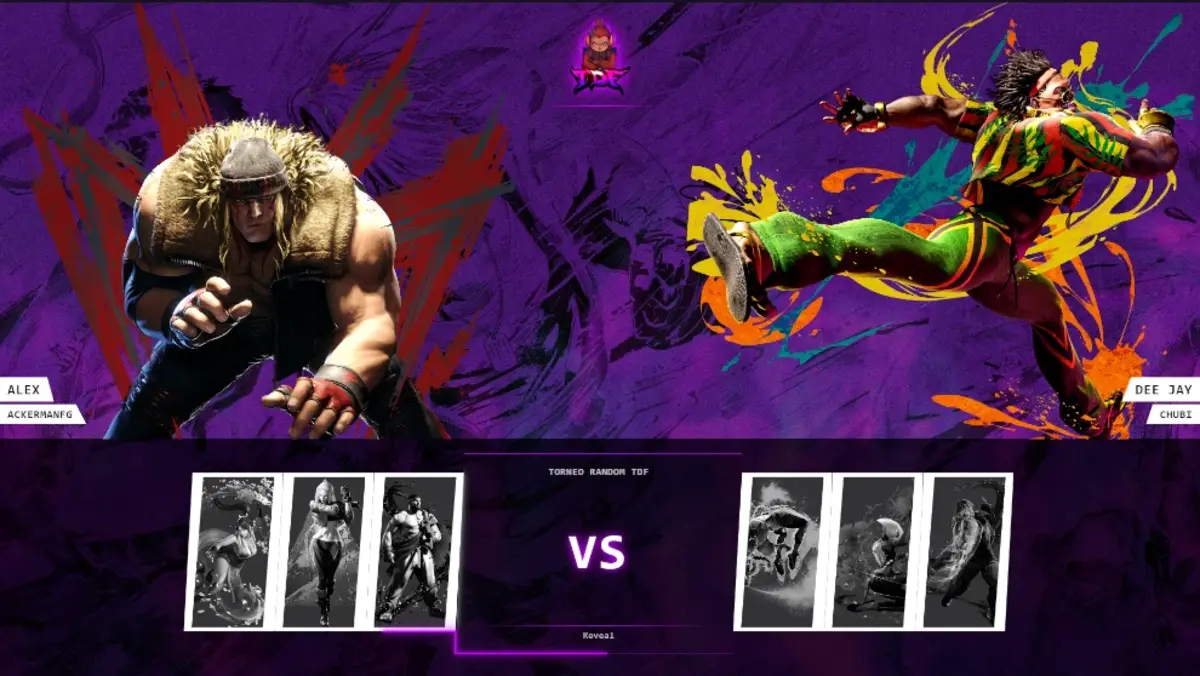
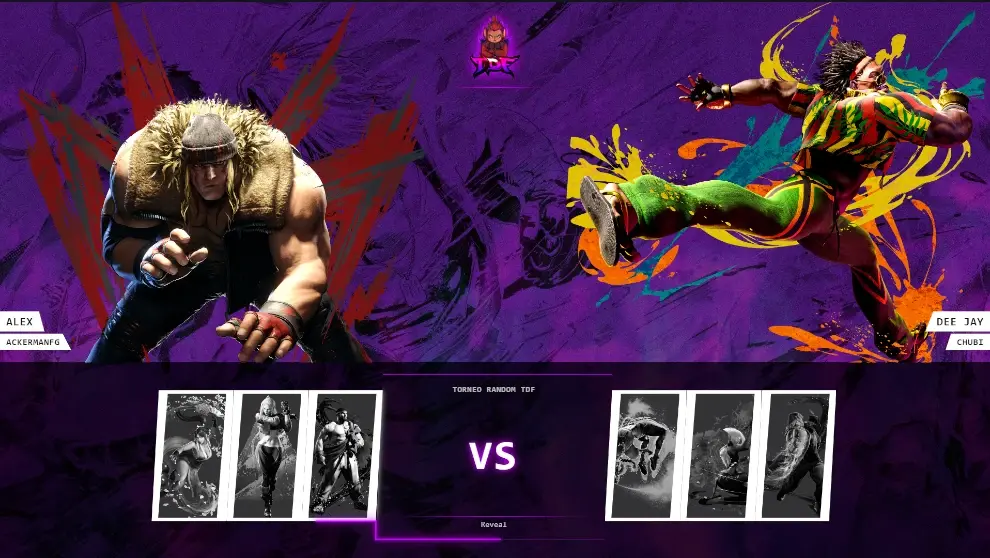
fix: sharper project images, eased slide-snap scroll, CV content alignment
Images
- tdf-random-select-2 was being upscaled from its real 990px width to
  1200px, which is what made it look blurry. Re-exported every project
  image at its native resolution (no upscaling) and higher quality.
- Recaptured TDF e-deportes at 2x device scale (1600px, was 1280px) for
  a genuinely sharper source instead of just raising JPEG/WebP quality
  on a soft one.

Scroll
- Replaced the native `scrollTo({behavior:"smooth"})` calls with a
  custom cubic-eased smoothScrollTo, shared by the slide-snap settle
  and nav-link jumps so the whole site scrolls on one curve.
- useSlideSnap now also advances on a fast flick over a short distance,
  not just distance crossed.
- Fixed two real bugs surfaced while building this: scrollIntoView
  doesn't move a sticky element (it already sits at the top of the
  viewport) — scrollToSection now computes the target offset from the
  panel's index instead. And the navbar's "don't hide during a
  programmatic jump" window was shorter than some jumps could take.
- smoothScrollTo's own rapid scrollTo() calls can have their 'scroll'
  events delayed and delivered in a batch well after the animation's
  own loop finishes, under main-thread load — isAnimationEcho()
  recognizes those by checking the reported position against the
  range the animation actually crossed, rather than guessing a fixed
  timeout, so the slide-snap logic doesn't mistake its own delayed
  echo for a new gesture mid-flight.
[…]

diff --git a/src/hooks/useSlideSnap.ts b/src/hooks/useSlideSnap.ts
@@ -1,14 +1,20 @@
 "use client";
 
 import { useEffect, type RefObject } from "react";
+import { smoothScrollTo, isScrollAnimating, isAnimationEcho } from "@/lib/smoothScrollTo";
 
 const DESKTOP_QUERY =
   "(min-width: 768px) and (pointer: fine) and (prefers-reduced-motion: no-preference)";
 const ADVANCE_RATIO = 0.12;
+const VELOCITY_ADVANCE = 0.6; // px/ms (~600px/s) — a firm flick advances a slide
+const MIN_MOVE_FOR_VELOCITY = 0.02; // fraction of viewport, guards against noise spikes
+const SETTLE_DEBOUNCE = 260; // ms of no scroll activity before deciding — must clear the
+// browser's own native "smooth" animation for a single wheel notch, or we'd react mid-flight.
 
-/** Free scrolling during the gesture, then one settle step when it ends: move
- *  to the next or previous panel if the user went past ADVANCE_RATIO of the
- *  viewport, otherwise return to where the gesture started. */
+/** Free scrolling during the gesture; once scroll activity pauses for
+ *  SETTLE_DEBOUNCE, move to the next or previous panel if the user crossed
+ *  ADVANCE_RATIO of the viewport (or flicked fast enough over a shorter
+ *  distance), otherwise return to where the gesture started. */
 export function useSlideSnap(containerRef: RefObject<HTMLElement | null>) {
   useEffect(() => {
     const container = containerRef.current;
@@ -19,42 +25,73 @@ export function useSlideSnap(containerRef: RefObject<HTMLElement | null>) {
     const last = panels.length - 1;
 
     let anchor = Math.round(window.scrollY / window.innerHeight);
+    let lastSampleT = 0;
+    let lastSampleY = 0;
+    let maxVelocity = 0; // signed px/ms, peak over the current gesture
+    let timer: number | undefined;
 
     const settle = () => {
       const h = window.innerHeight;
       const pos = window.scrollY / h;
       const moved = pos - anchor;
       let target = anchor;
+
       if (Math.abs(moved) > 1.5) {
         target = Math.round(pos);
-      } else if (moved > ADVANCE_RATIO) {
+      } else if (
+        moved > ADVANCE_RATIO ||
+        (moved > MIN_MOVE_FOR_VELOCITY && maxVelocity > VELOCITY_ADVANCE)
+      ) {
         target = anchor + 1;
-      } else if (moved < -ADVANCE_RATIO) {
+      } else if (
+        moved < -ADVANCE_RATIO ||
+        (moved < -MIN_MOVE_FOR_VELOCITY && maxVelocity < -VELOCITY_ADVANCE)
+      ) {
         target = anchor - 1;
       }
+
       target = Math.min(Math.max(target, 0), last);
       anchor = target;
+      maxVelocity = 0;
+      lastSampleT = 0;
       if (Math.abs(window.scrollY - target * h) > 1) {
-        window.scrollTo({ top: target * h, behavior: "smooth" });
+        smoothScrollTo(target * h);
       }
     };
 
-    const supportsScrollEnd = "onscrollend" in window;
-    let timer: number | undefined;
     const onScroll = () => {
-      if (!supportsScrollEnd) {
+      const y = window.scrollY;
+
+      // Ignore scroll events generated by our own smoothScrollTo animation —
+      // whether still actively stepping, or a late echo the browser is only
+      // now delivering after keeping the main thread busy. Otherwise either
+      // one looks like a continuing user gesture and corrupts the landing
+      // position (see isAnimationEcho for why value-range, not a timeout).
+      if (isScrollAnimating() || isAnimationEcho(y)) {
+        lastSampleT = 0;
         window.clearTimeout(timer);
-        timer = window.setTimeout(settle, 140);
+        return;
       }
+
+      const now = performance.now();
+      if (lastSampleT) {
+        const dt = now - lastSampleT;
+        if (dt > 0) {
+          const v = (y - lastSampleY) / dt;
+          if (Math.abs(v) > Math.abs(maxVelocity)) maxVelocity = v;
+        }
+      }
+      lastSampleT = now;
+      lastSampleY = y;
+
+      window.clearTimeout(timer);
+      timer = window.setTimeout(settle, SETTLE_DEBOUNCE);
     };
-    const onScrollEnd = () => settle();
 
     window.addEventListener("scroll", onScroll, { passive: true });
-    window.addEventListener("scrollend", onScrollEnd);
     return () => {
       window.clearTimeout(timer);
       window.removeEventListener("scroll", onScroll);
-      window.removeEventListener("scrollend", onScrollEnd);
     };
   }, [containerRef]);
 }

diff --git a/src/lib/smoothScrollTo.ts b/src/lib/smoothScrollTo.ts
@@ -1,0 +1,60 @@
+"use client";
+
+function easeInOutCubic(t: number): number {
+  return t < 0.5 ? 4 * t * t * t : 1 - (-2 * t + 2) ** 3 / 2;
+}
+
+let rafId: number | null = null;
+let lastFrom = 0;
+let lastTo = 0;
+let lastCallAt = 0;
+
+/** True while smoothScrollTo's own animation is actively stepping. */
+export function isScrollAnimating(): boolean {
+  return rafId !== null;
+}
+
+/** True for a scrollY that's an echo of our own last animation rather than
+ *  new user movement. Each of smoothScrollTo's per-frame `window.scrollTo()`
+ *  calls fires a native 'scroll' event, but under load (a continuous rAF
+ *  loop keeping the main thread busy for the whole animation) the browser
+ *  can defer and batch-deliver those events well after the animation's own
+ *  rAF loop has finished — well past any fixed grace-period timeout.
+ *  Checking the reported value against the animated range, instead of
+ *  guessing how long that delay can be, is robust regardless of how late
+ *  the events arrive: a genuine new gesture moves the page outside the
+ *  range this animation ever crossed. The 500ms cap keeps that safety net
+ *  from blocking a genuinely new gesture that overlaps the same range
+ *  (e.g. the adjacent panel in the opposite direction). */
+export function isAnimationEcho(y: number): boolean {
+  if (performance.now() - lastCallAt > 900) return false;
+  const lo = Math.min(lastFrom, lastTo) - 2;
+  const hi = Math.max(lastFrom, lastTo) + 2;
+  return y >= lo && y <= hi;
+}
+
+/** Animates window.scrollY to `top` on a cubic ease, replacing the browser's
+ *  native `behavior: "smooth"` (a fixed, not-very-polished curve with a
+ *  duration the page can't control). Used for both the slide-snap settle and
+ *  programmatic nav jumps, so the whole site scrolls on the same curve. */
+export function smoothScrollTo(top: number, duration = 450) {
+  if (rafId !== null) cancelAnimationFrame(rafId);
+
+  const start = window.scrollY;
+  const distance = top - start;
+  if (Math.abs(distance) < 1) return;
+
+  lastFrom = start;
+  lastTo = top;
+  lastCallAt = performance.now();
+
+  const startTime = performance.now();
+
+  function step(now: number) {
+    const t = Math.min((now - startTime) / duration, 1);
+    window.scrollTo(0, start + distance * easeInOutCubic(t));
+    rafId = t < 1 ? requestAnimationFrame(step) : null;
+  }
+
+  rafId = requestAnimationFrame(step);
+}

diff --git a/src/lib/scrollToSection.ts b/src/lib/scrollToSection.ts
@@ -1,3 +1,5 @@
+import { smoothScrollTo } from "@/lib/smoothScrollTo";
+
 let programmaticScrollUntil = 0;
 
 /** True for a short window after scrollToSection() runs. Navbar's
@@ -12,12 +14,15 @@ export function isProgrammaticScroll(): boolean {
  *  CTA buttons. Sticky desktop panels can't use scrollIntoView (they already
  *  sit at the top of the viewport), so their offset comes from their index. */
 export function scrollToSection(href: string) {
-  programmaticScrollUntil = Date.now() + 2200;
+  programmaticScrollUntil = Date.now() + 1100;
   const el = document.querySelector<HTMLElement>(href);
   if (!el) return;
   if (getComputedStyle(el).position === "sticky") {
+    const h = window.innerHeight;
     const index = Array.from(document.querySelectorAll(".panel")).indexOf(el);
-    window.scrollTo({ top: index * window.innerHeight, behavior: "smooth" });
+    const panelsCrossed = Math.abs(index * h - window.scrollY) / h;
+    const duration = Math.min(850, Math.max(350, panelsCrossed * 180));
+    smoothScrollTo(index * h, duration);
     return;
   }
   el.scrollIntoView({ behavior: "smooth" });

diff --git a/src/components/Skills.tsx b/src/components/Skills.tsx
@@ -30,6 +30,13 @@ const CATEGORIES = [
     icon: <path d="M12 2a5 5 0 0 1 5 5c0 2-1 3-1 5v2H8v-2c0-2-1-3-1-5a5 5 0 0 1 5-5ZM9 18h6M10 21h4" />,
     tags: ["LLMs", "pgvector", "RAG", "Whisper"],
   },
+  {
+    title: "Sistemas & Redes",
+    description:
+      "Administro infraestructura Linux a diario y entiendo la red bajo la aplicación: DNS, firewall, VPN, direccionamiento IP. Lo que no se ve, pero sin lo cual nada corre.",
+    icon: <path d="M3 4h18v6H3V4Zm0 10h18v6H3v-6Zm4-7h.01M7 17h.01M12 7h6M12 17h6" />,
+    tags: ["Linux", "Bash", "DNS", "VPN"],
+  },
 ];
 
 /** 3D tilt on hover, tracking the pointer within the card bounds. */
@@ -147,7 +154,7 @@ export default function Skills() {
         </h2>
       </div>
 
-      <div ref={cardsRef} className="grid grid-cols-1 md:grid-cols-3 gap-6 relative z-10">
+      <div ref={cardsRef} className="grid grid-cols-1 sm:grid-cols-2 md:grid-cols-4 gap-6 relative z-10">
         {CATEGORIES.map((cat, i) => (
           <TiltCard key={cat.title} index={i}>
             <div

diff --git a/src/components/Projects.tsx b/src/components/Projects.tsx
@@ -127,7 +127,7 @@ const PROJECTS = [
     description:
       "Dashboard y overlay de OBS que siguen una sesión de Street Fighter 6 en vivo: victorias, derrotas, racha y cambio de LP por personaje, sin hotkeys ni conteo manual. Una extensión de navegador (SST Companion) lee los datos de Buckler's Boot Camp dentro de la sesión del propio usuario; las credenciales de Capcom nunca llegan al servidor.",
     result: "Actualizaciones en tiempo real vía SSE · Closed beta",
-    stack: ["Next.js", "TypeScript", "PostgreSQL", "SSE", "Chrome Extension"],
+    stack: ["Next.js", "TypeScript", "PostgreSQL", "SSE", "Vitest", "Chrome Extension"],
     variant: "dashboard" as const,
     github: "https://github.com/SRGarciaVel/sf6-session-tracker",
     private: false,

diff --git a/src/components/Certifications.tsx b/src/components/Certifications.tsx
@@ -24,7 +24,7 @@ const CREDENTIALS = [
     title: "Ingeniería de Ejecución en Computación e Informática",
     subtitle: "Universidad del Bío-Bío, Concepción, Chile",
     issuer: "Universidad del Bío-Bío",
-    status: "Tesis aprobada Dic 2025 · Titulación estimada Ago–Dic 2026",
+    status: "Egresado Dic 2025 · Título en trámite",
     icon: (
       <path d="M12 3 1 8l11 5 9-4.1V17h2V8L12 3Zm-7 8.8V16c0 2.2 3.1 4 7 4s7-1.8 7-4v-4.2l-7 3.2-7-3.2Z" />
     ),
